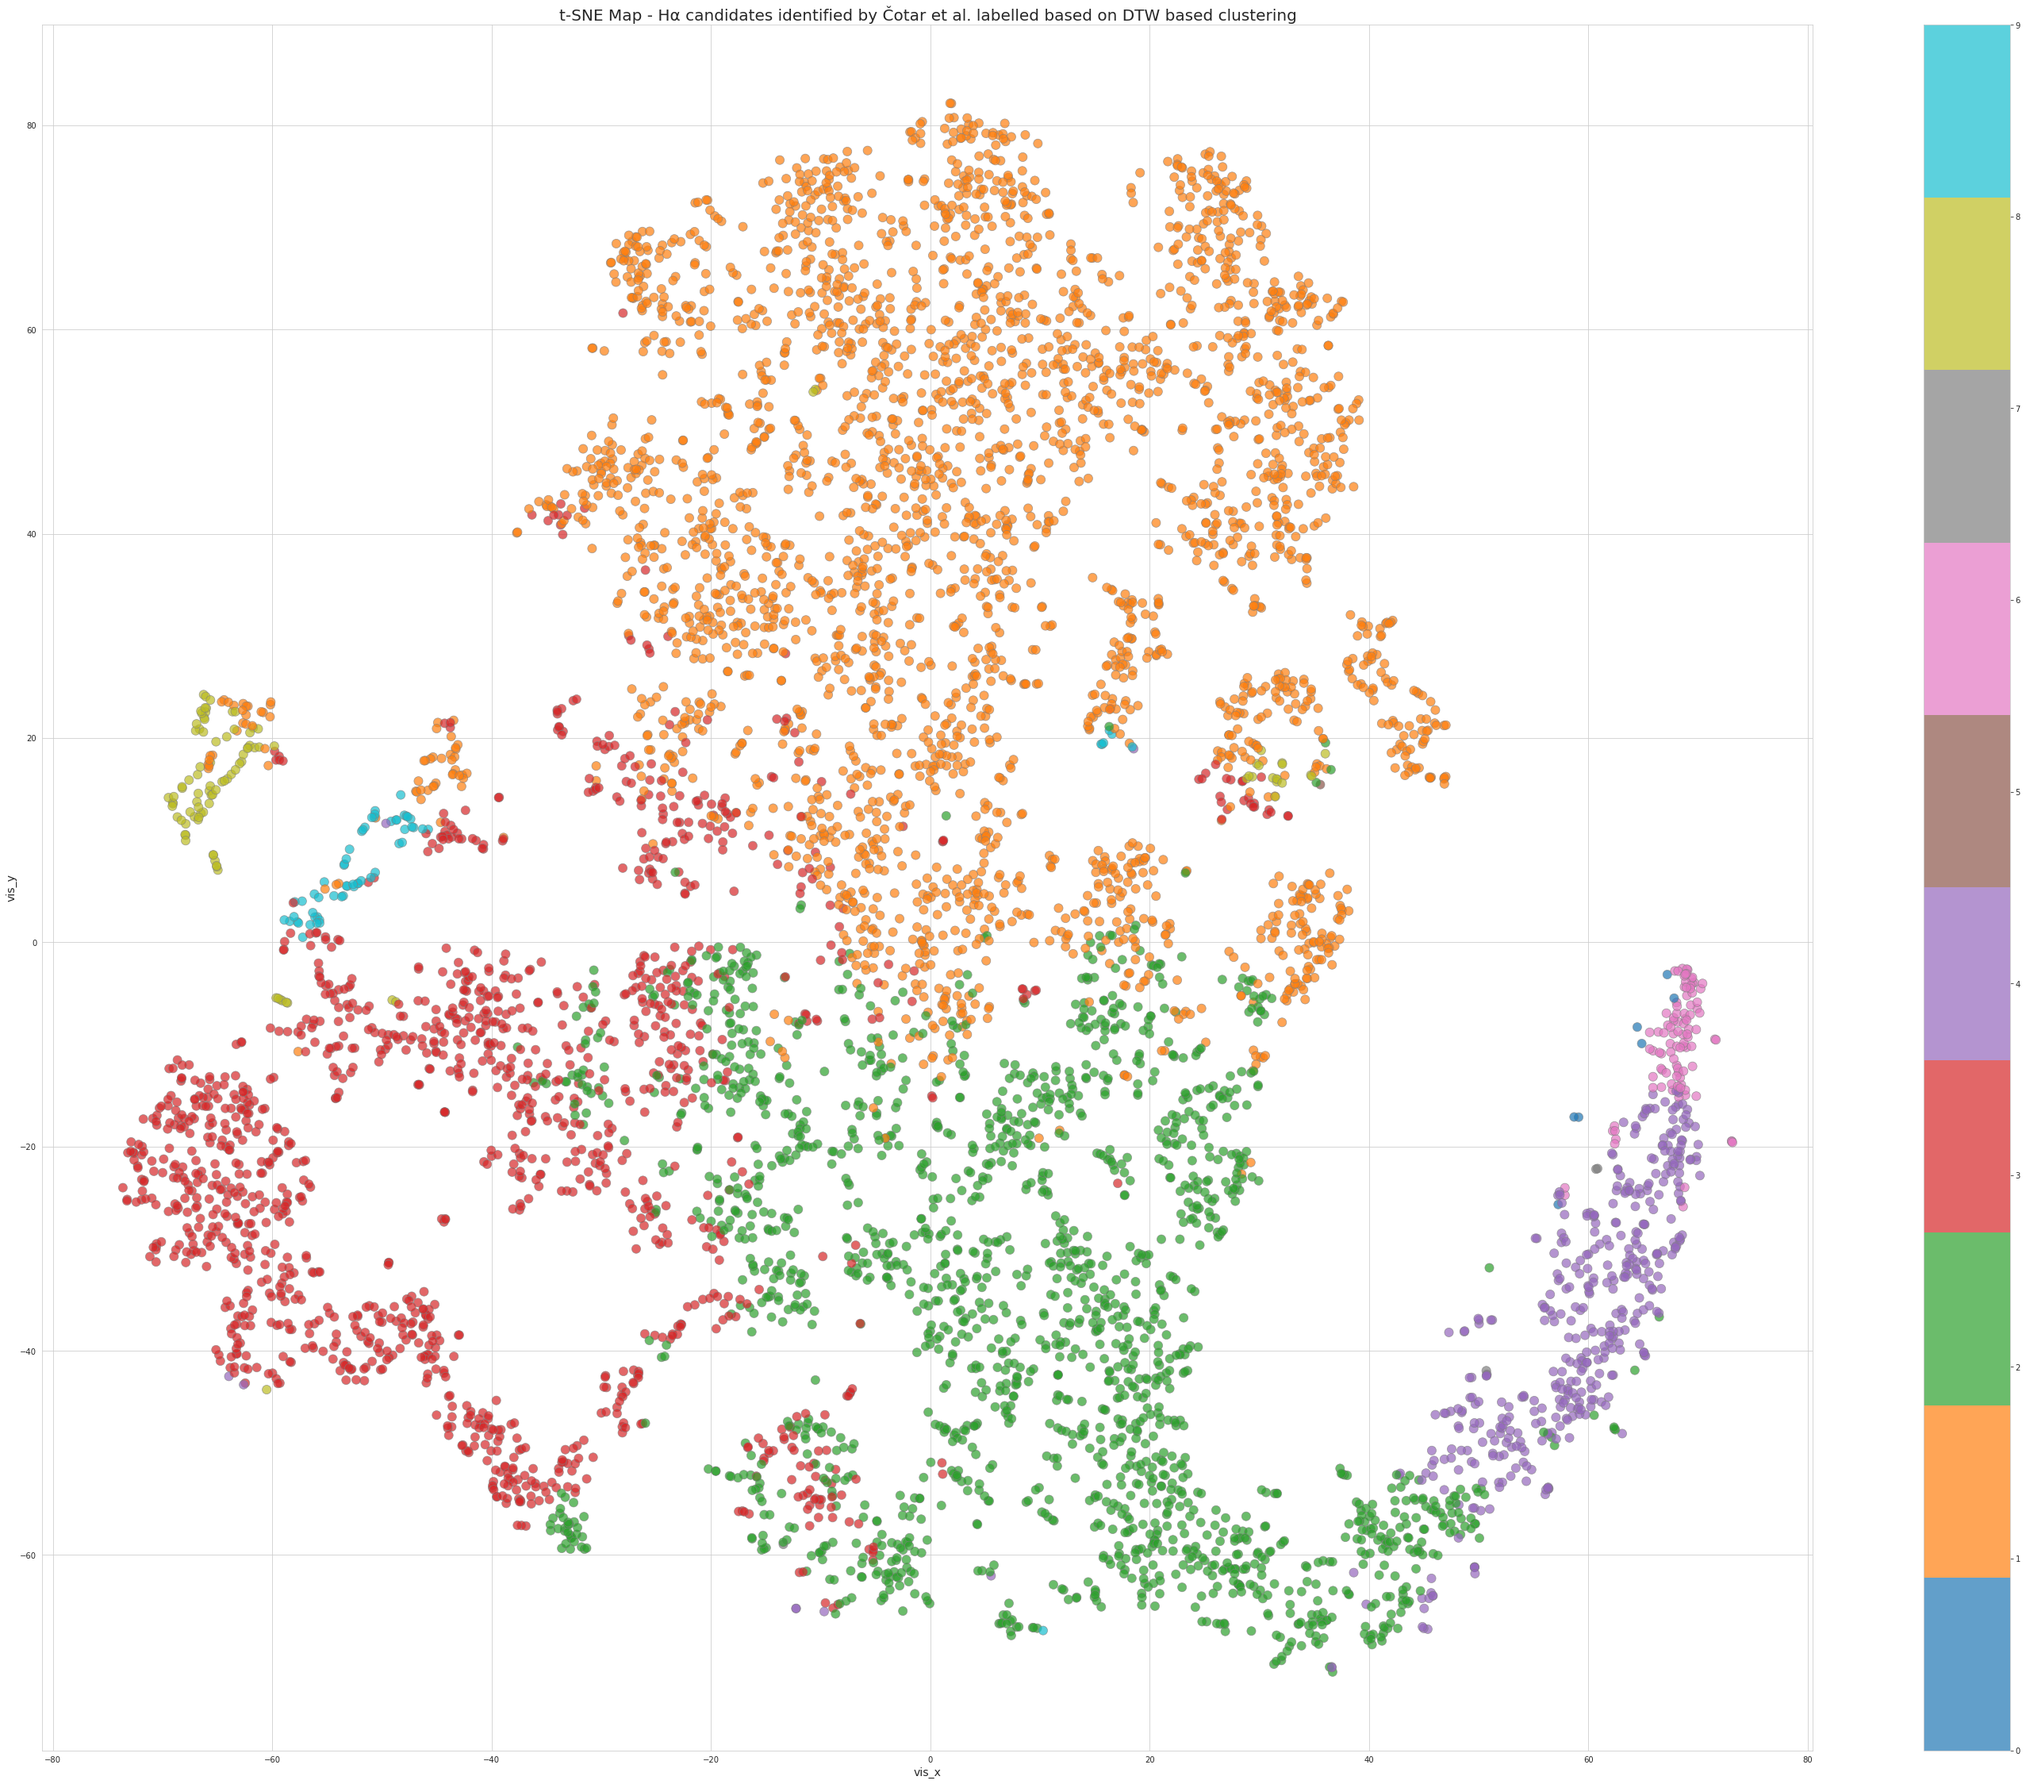
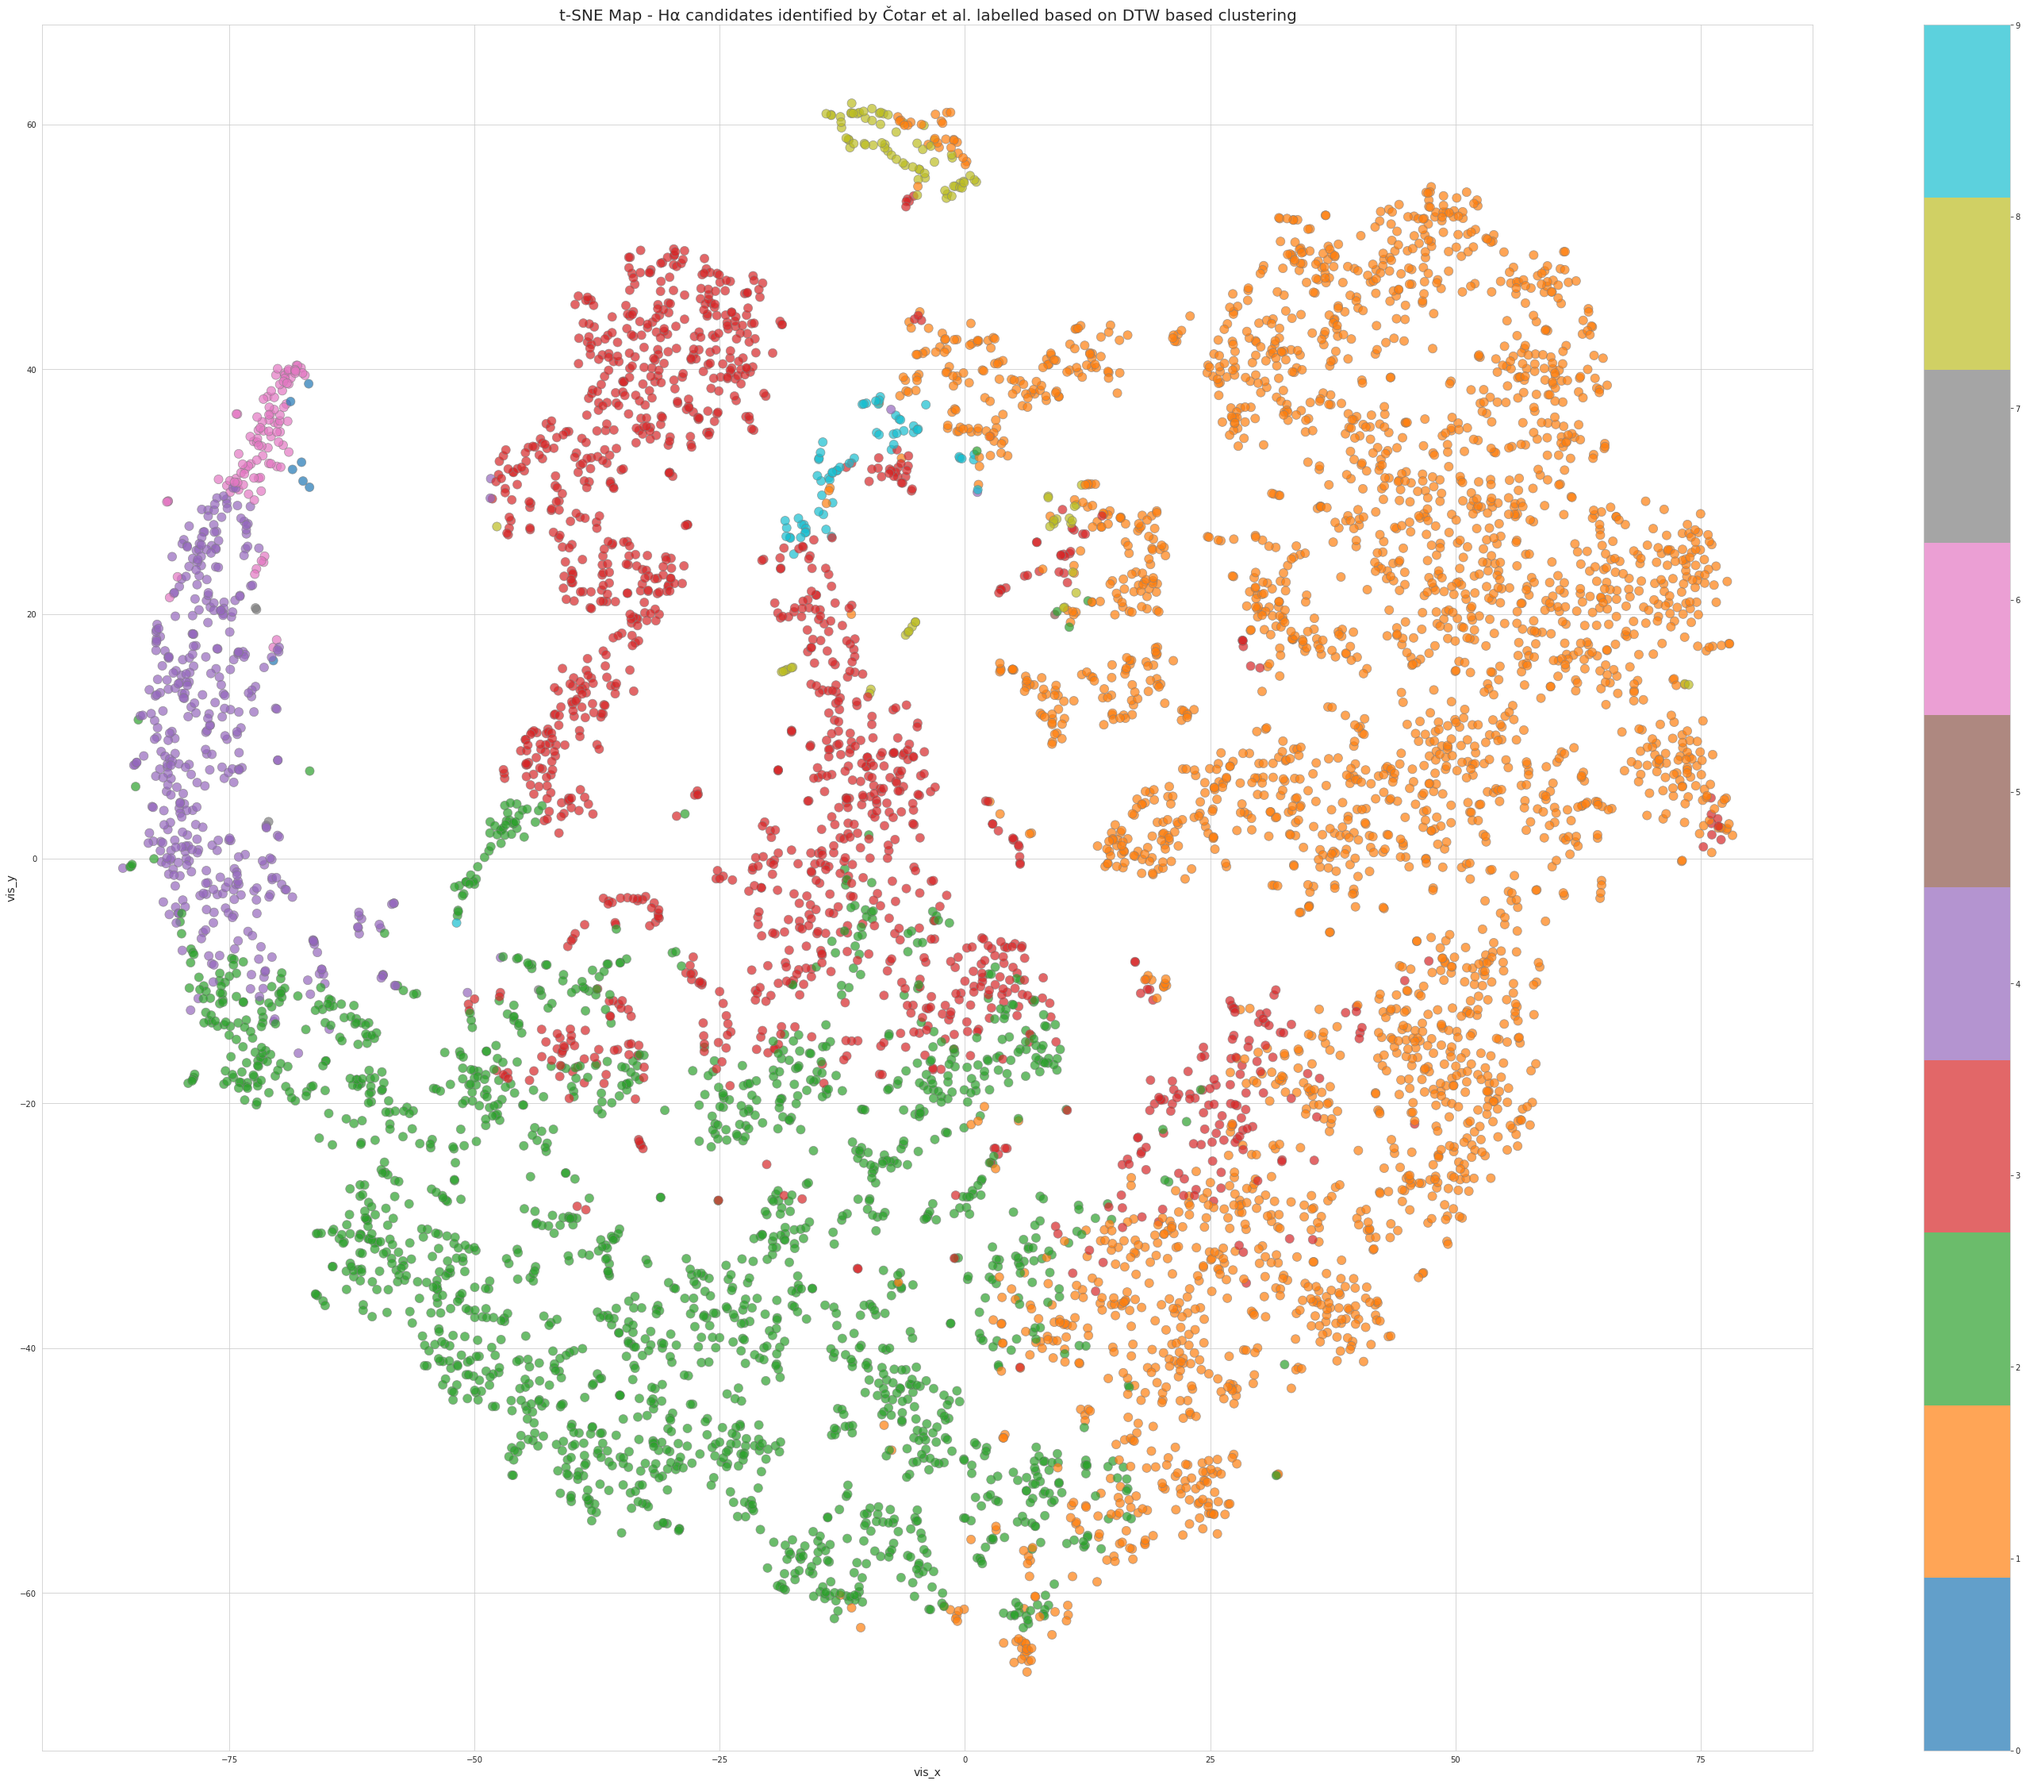
Completed chapter 5

Changed region(s): [[0.0619, 0.0623, 0.8661, 0.9342]]

diff --git a/chap_5_tsne.tex b/chap_5_tsne.tex
@@ -100,4 +100,46 @@ Note that the representation is significantly simpler compared to the prior appl
 \caption{t-SNE map for H$\alpha$ candidates identified by Čotar et al. labelled based on DTW based clustering.}
 \end{figure}
 
-Here the P Cygni candidates are represented by cluster 8 and by the colour lime-green while the inverse P Cygni spectra are represented by cluster 9 and the colour teal. Note that cluster 8 appears in two physically separate regions of the t-SNE map and as does cluster 9. Thus it is clear that the application of t-SNE on the H$\alpha$ candidates identified by Čotar et al. does not meaningfully separate P Cygni and inverse P Cygni spectra into distinct regions of the t-SNE map.
+Here the P Cygni candidates are represented by cluster 8 and by the colour olive while the inverse P Cygni spectra are represented by cluster 9 and the colour cyan. Note that cluster 8 appears in two physically separate regions of the t-SNE map and as does cluster 9. Thus it is clear that the application of t-SNE on the H$\alpha$ candidates identified by Čotar et al. does not meaningfully separate P Cygni and inverse P Cygni spectra into distinct regions of the t-SNE map. For morphology based classification, the DTW based method outlined in chapter 4 outperforms the t-SNE based classification.
+
+\subsection{Examination of the P Cygni cluster}
+
+\begin{figure}[!htb]
+\centering
+\includegraphics[scale=0.14]{figures/t-sne p cygni only.png}
+\caption{t-SNE map highlighting P Cygni cluster.}
+\end{figure}
+
+\begin{figure}[!htb]
+\centering
+\includegraphics[scale=0.45]{figures/pcygni.png}
+\caption{P Cygni spectra identified using DTW based clustering in the H$\alpha$ candidate dataset released by Čotar et al.}
+\end{figure}
+
+
+\begin{figure}[!htb]
+\centering
+\includegraphics[scale=0.45]{figures/spectra less than 40.png}
+\caption{P Cygni spectra where t-SNE region is 0<y<40. }
+\end{figure}
+
+\begin{figure}[!htb]
+\centering
+\includegraphics[scale=0.45]{figures/spectra greater than 40.png}
+\caption{P Cygni spectra where t-SNE region is 40<y<70. }
+\end{figure}
+
+A closer examination of the P Cygni clusters reveals two regions on the t-SNE map that are sufficiently far apart. The P Cygni candidates in these regions were examined in further detail in order to determine which feature the t-SNE process was selecting for this distinct region separation. This research split the regions along the y axis into two groups, $0<y<40$ and $40<y<70$ . Once these cuts were made, the spectra from each region were plotted on the same wavelength grid. 
+
+The results indicate that while t-SNE may not be able to separate H$\alpha$ emission candidates based on morphology as effectively as DTW based clustering, the 2-dimensional t-SNE space is able to discriminate based on features such as the wavelength at which the maximum flux is observed. This behaviour can be important for future feature engineering when reducing higher dimensional data to 2-dimensional maps such as t-SNE. This research hypothesises that it is likely that a 2-dimensional representation of a high resolution and higher dimensional spectrum introduces significant compression such that the features that contribute to morphology of P Cygni and inverse P Cygni spectra are no longer meaningfully represented.
+
+\section{Concluding remarks}
+
+t-SNE has proved extremely useful in the classification of high resolution spectra from the GALAH Survey. While some progress has been made in using this method to cluster and classify H$\alpha$ emission candidates \cite{traven2017galah} it appears that more fine tuned methods such as those discussed in Čotar et al perform better on this task \cite{vcotar2021galah}.
+
+Secondly, for clustering and classification of P Cygni and inverse P Cygni spectra, it appears that t-SNE may not be sufficiently sensitive to the morphology of these spectra and thus performs sub-optimally in grouping P Cygni spectra and inverse P Cygni spectra into distinct clusters on the t-SNE map. 
+
+Thirdly, this research can hypothesise that some higher dimensional information such as the peak wavelength (wavelength at which maximum flux occurs) has been preserved in the lower dimensional representation of P Cygni spectra and thus can perform a minor discriminatory role in the sub classification of P Cygni spectra based on the location of the maximum flux. This may prove useful in future research, particularly in the context of feature engineering when taking other machine learning approaches. 
+
+Finally, t-SNE could be a robust methodology for applications and problems where maximum (or minimum) flux plays a more discriminatory role than the morphology of the spectrum while a DTW based approach may be more suitable for the inverse case such as P Cygni and inverse P Cygni identification.
+

diff --git a/chap_4_dtw.tex b/chap_4_dtw.tex
@@ -182,7 +182,7 @@ The Gaussian mixture model is defined as,
 
 This seven parameter model contains an offset parameter $C$ to account for the inverted Gaussian required to model the absorption trough/line of the P Cygni and inverse P Cygni spectra. The parameters A and B are to account for the respective amplitudes of the emission and absorption lines. The uncertainties of this fit can be modelled more accurately within a Bayesian framework and the use of MCMC estimation. However this is beyond the scope of this work \cite{hogg2010data}.
 
-\begin{figure}[h]
+\begin{figure}[!htb]
 \centering
 \includegraphics[scale=0.45]{figures/p cugni fitted.png}
 \caption{A Gaussian mixture model fit of one of the identified P Cygni spectra.}
@@ -190,24 +190,30 @@ This seven parameter model contains an offset parameter $C$ to account for the i
 
 The process can be repeated for each P Cygni spectrum discovered by clustering. Below are a few examples of these fitted models. 
 
-\begin{figure}[h]
+\begin{figure}[!htb]
 \centering
 \includegraphics[scale=0.45]{figures/p cygni fitted 2.png}
 \caption{A Gaussian mixture model fit for sobject ID 140117002101365. }
 \end{figure}
 
-\begin{figure}[h]
+\begin{figure}[!htb]
 \centering
 \includegraphics[scale=0.45]{figures/p cygni fitted 3.png}
 \caption{A Gaussian mixture model fit for sobject ID 140414005101301. }
 \end{figure}
 
-This process was also extended to the inverse P Cygni spectra. A few examples are provided below. 
+This process was also extended to the inverse P Cygni spectra.
 
-\begin{figure}[h]
+\begin{figure}[!htb]
 \centering
 \includegraphics[scale=0.45]{figures/inverse p cygni 1.png}
-\caption{A Gaussian mixture model fit of one of the identified inverse P Cygni spectra. }
+\caption{A Gaussian mixture model fit of one of the identified inverse P Cygni spectrum. }
+\end{figure}
+
+\begin{figure}[!htb]
+\centering
+\includegraphics[scale=0.45]{figures/inverse p cygni fitted 2.png}
+\caption{A Gaussian mixture model fit for sobject ID 140414005101301 (inverse P Cygni spectrum). }
 \end{figure}
 
 
